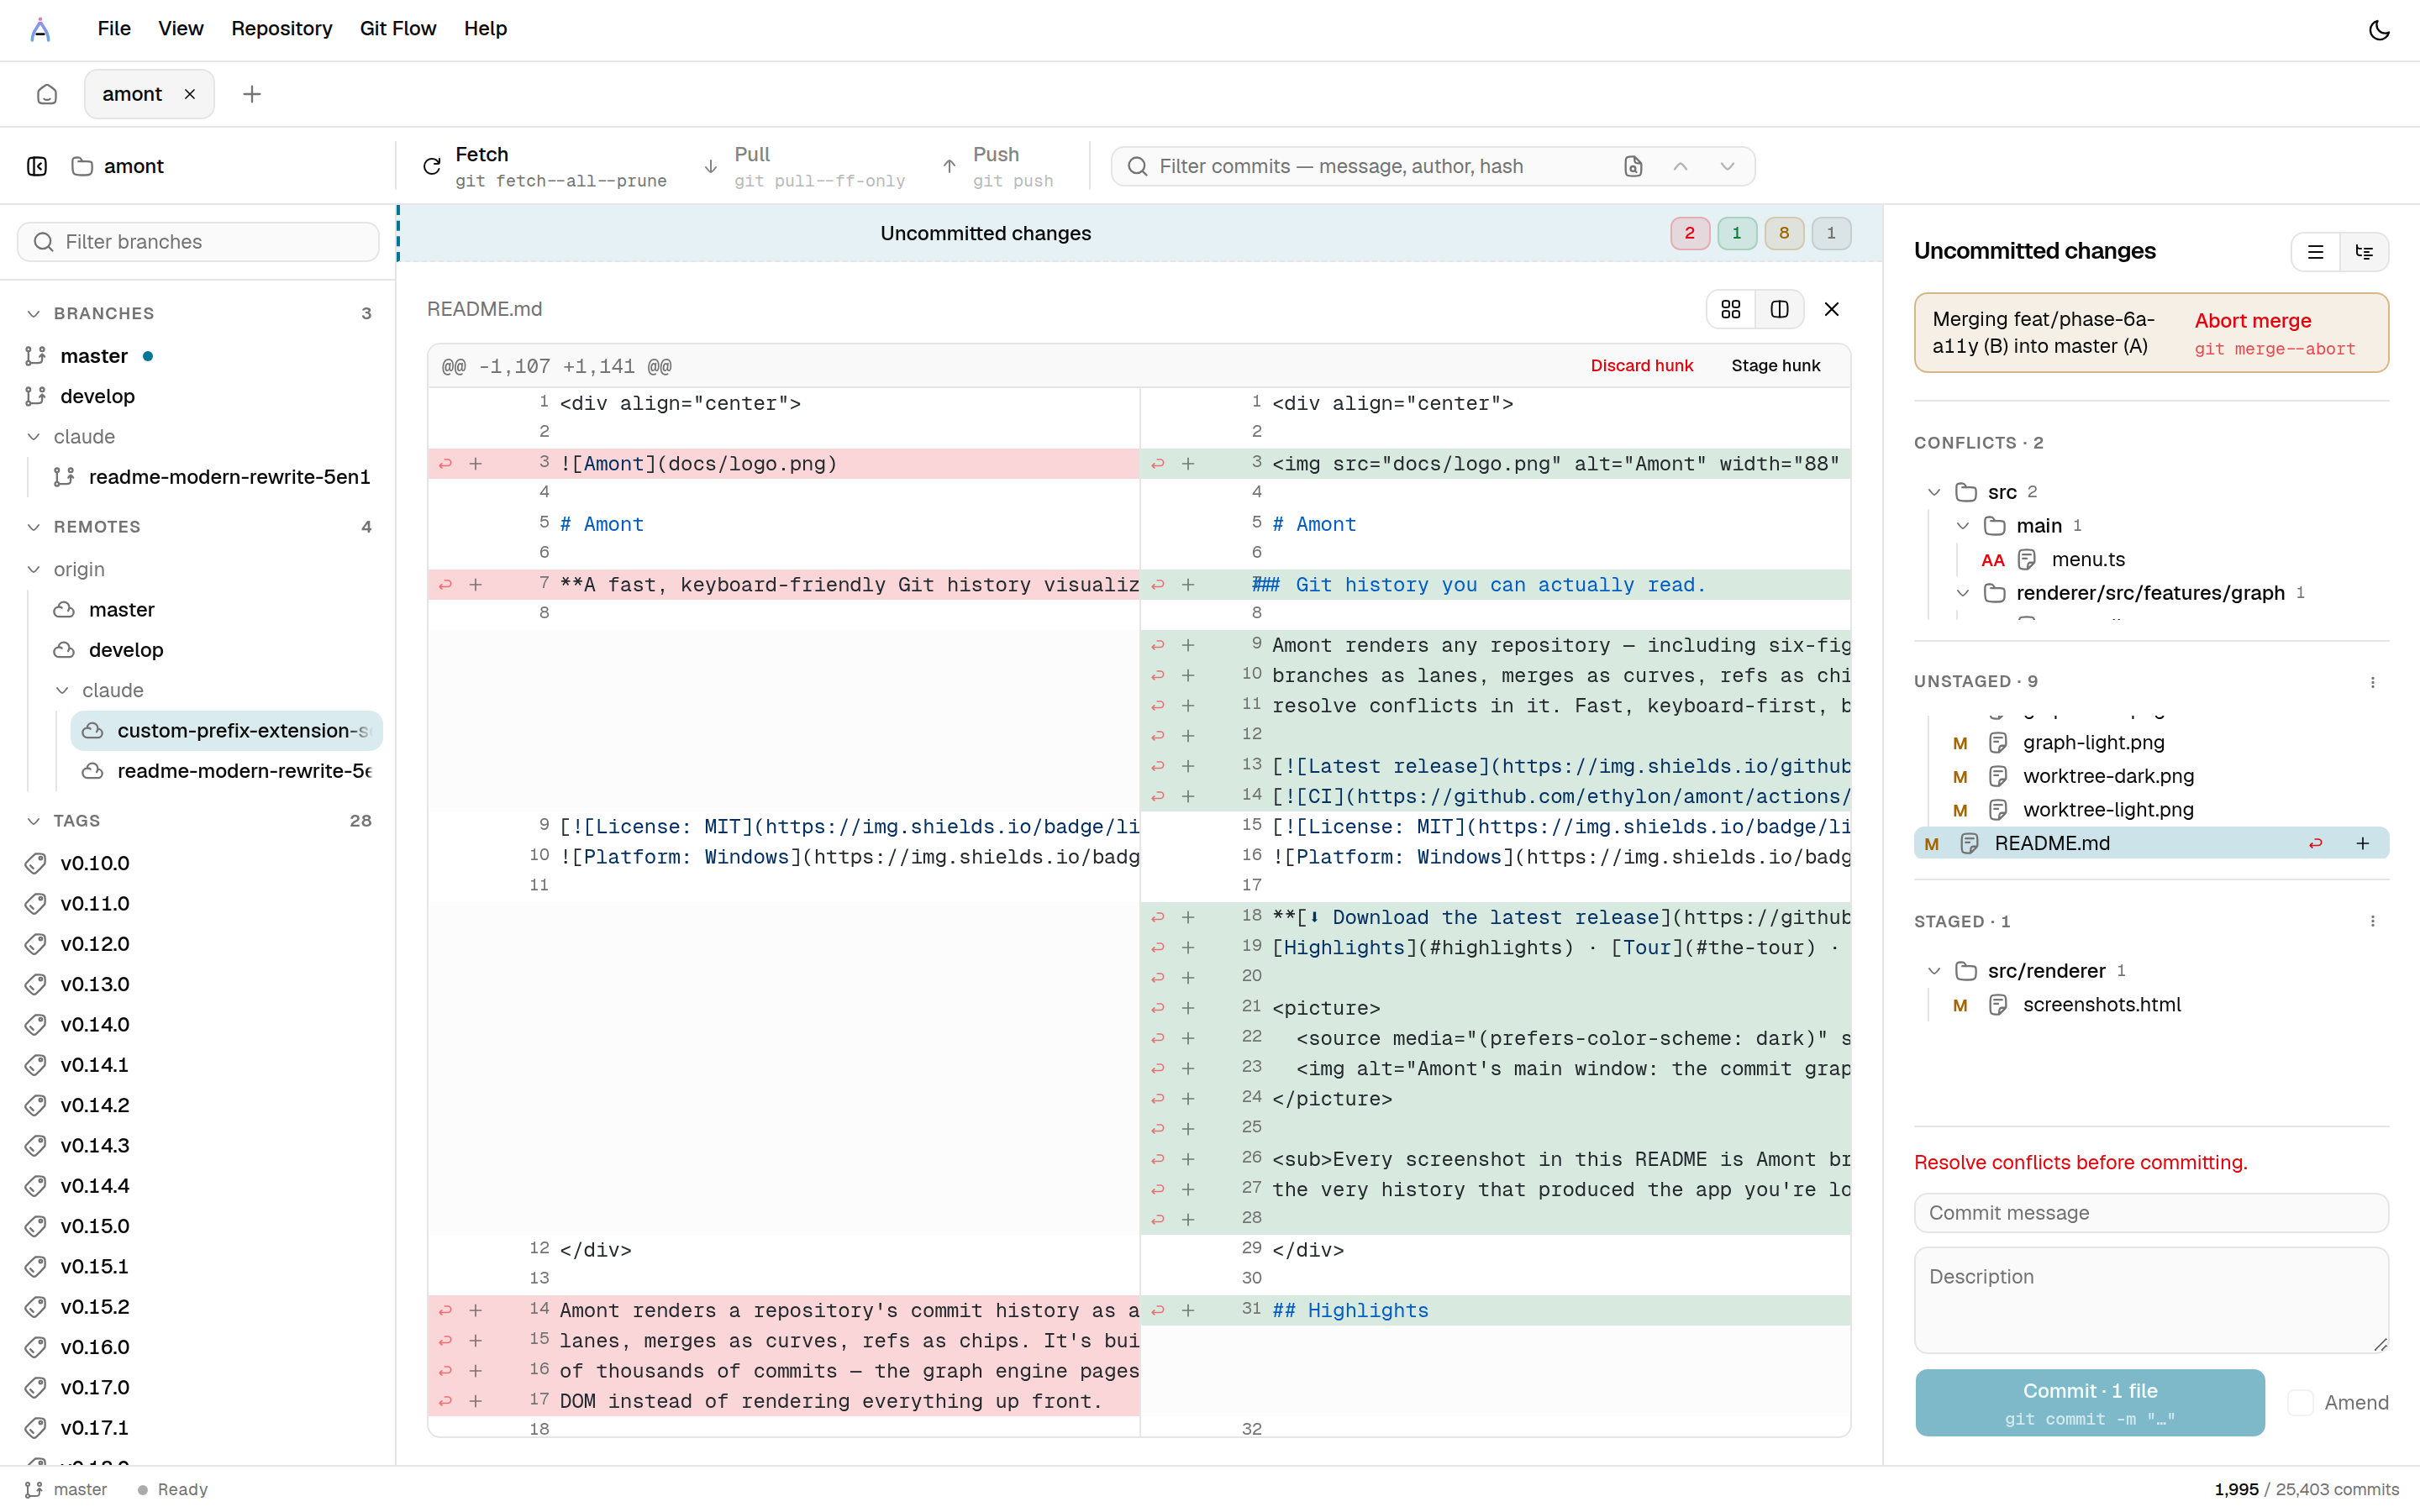
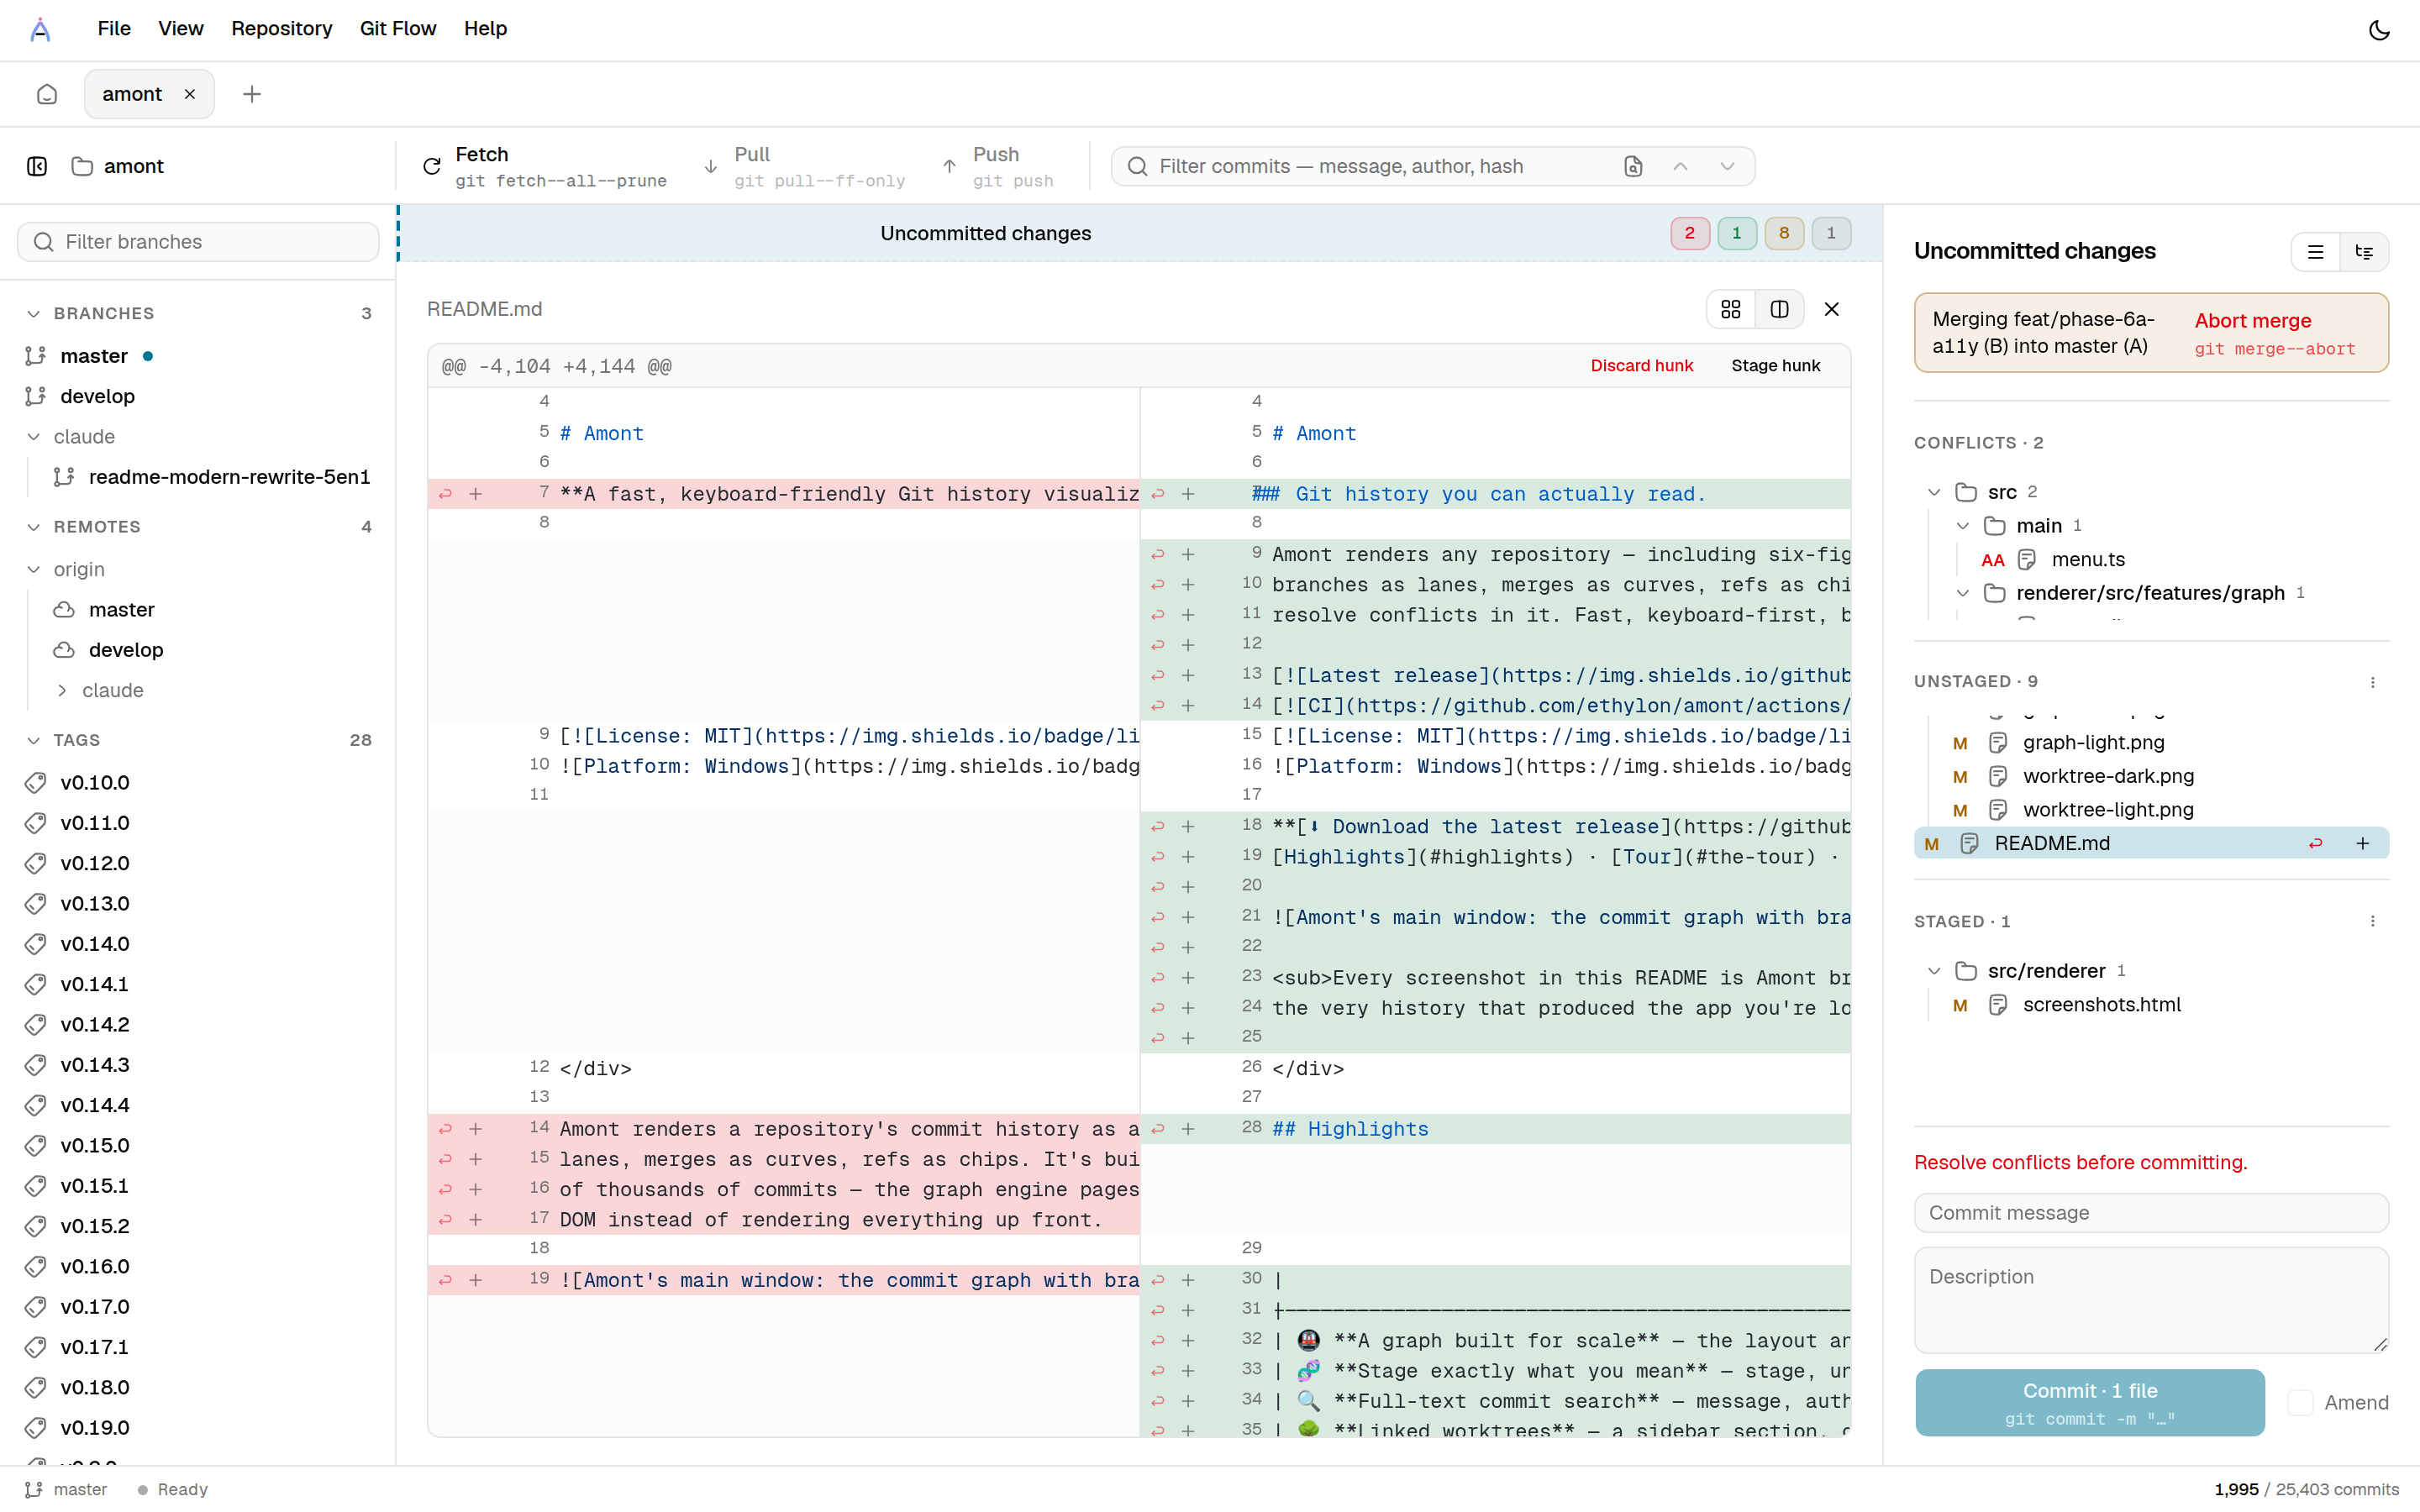
fix(docs): markdown image syntax so README images render on a private repo
GitHub only rewrites relative image paths to authenticated URLs for
markdown-syntax images; inside raw HTML (<img>, <picture><source srcset>)
they resolve against github.com and 404 on a private repository. Swap
every repo-hosted image back to ![](docs/…) — dark variants move into
<details> blocks instead of <picture> theme switching — and refresh the
staging screenshots plus the harness's embedded README diff to match the
final text.

Claude-Session: https://claude.ai/code/session_017cNpH4hZe9yYCL1wKAB27X

diff --git a/README.md b/README.md
@@ -1,6 +1,6 @@
 <div align="center">
 
-<img src="docs/logo.png" alt="Amont" width="88" />
+![Amont](docs/logo.png)
 
 # Amont
 
@@ -18,10 +18,7 @@ resolve conflicts in it. Fast, keyboard-first, built for Windows.
 **[⬇ Download the latest release](https://github.com/ethylon/amont/releases/latest)** ·
 [Highlights](#highlights) · [Tour](#the-tour) · [Install](#install) · [Development](#development)
 
-<picture>
-  <source media="(prefers-color-scheme: dark)" srcset="docs/graph-dark.png" />
-  <img alt="Amont's main window: the commit graph with branch lanes and ref chips, the branches sidebar, and the detail panel showing a commit's message and file tree." src="docs/graph-light.png" />
-</picture>
+![Amont's main window: the commit graph with branch lanes and ref chips, the branches sidebar, and the detail panel showing a commit's message and file tree.](docs/graph-light.png)
 
 <sub>Every screenshot in this README is Amont browsing <strong>Amont's own repository</strong> —
 the very history that produced the app you're looking at. It's turtles all the way down.</sub>
@@ -51,10 +48,7 @@ ahead/behind divergence are folded into one timeline; commit subjects carry type
 (`feat`, `fix`, `style`, …) so the shape of the work reads at a glance. Selecting a commit
 opens its full message, co-authors and changed files in the detail panel.
 
-<picture>
-  <source media="(prefers-color-scheme: light)" srcset="docs/graph-light.png" />
-  <img alt="The commit graph and detail panel in the dark theme." src="docs/graph-dark.png" />
-</picture>
+![The commit graph and detail panel in the dark theme.](docs/graph-dark.png)
 
 ### Diffs that read like code
 
@@ -62,10 +56,14 @@ Unified or side-by-side, one file or the whole commit — the two panes scroll t
 Shiki highlights everything with the same grammars VS Code uses. Binary images render in a
 proper viewer.
 
-<picture>
-  <source media="(prefers-color-scheme: dark)" srcset="docs/diff-dark.png" />
-  <img alt="A side-by-side, syntax-highlighted diff of a TypeScript file, with the commit's detail panel on the right." src="docs/diff-light.png" />
-</picture>
+![A side-by-side, syntax-highlighted diff of a TypeScript file, with the commit's detail panel on the right.](docs/diff-light.png)
+
+<details>
+<summary>🌙 Same view, dark theme</summary>
+
+![The same side-by-side diff in the dark theme.](docs/diff-dark.png)
+
+</details>
 
 ### Stage exactly what you mean
 
@@ -73,10 +71,14 @@ The `Uncommitted changes` row at the top of the graph opens the staging panel: s
 unstage files, folders, hunks or single lines from a live split diff, review everything,
 then commit or amend — with the exact git command shown on the button before you run it.
 
-<picture>
-  <source media="(prefers-color-scheme: dark)" srcset="docs/worktree-dark.png" />
-  <img alt="The staging panel: staged and unstaged file trees, a live side-by-side diff with per-hunk stage/discard actions, and the commit message box." src="docs/worktree-light.png" />
-</picture>
+![The staging panel: staged and unstaged file trees, a live side-by-side diff with per-hunk stage/discard actions, and the commit message box.](docs/worktree-light.png)
+
+<details>
+<summary>🌙 Same view, dark theme</summary>
+
+![The same staging panel in the dark theme.](docs/worktree-dark.png)
+
+</details>
 
 <sub>Inception checkpoint: the diff being staged up there is <em>this README rewrite</em>,
 mid-flight, next to its freshly reshot screenshots.</sub>
@@ -94,10 +96,14 @@ lines — landing in the merged output **in the order you click them**, no force
 A-before-B. The output is a normal, highlighted editor: picks and hand edits coexist.
 `Mark as resolved` writes the file and stages it once no conflict markers remain.
 
-<picture>
-  <source media="(prefers-color-scheme: dark)" srcset="docs/conflict-dark.png" />
-  <img alt="The conflict resolution view: the 'ours' (A) and 'theirs' (B) versions of a file in two aligned, syntax-highlighted panes with per-side and per-line pickers, above an editable merged output." src="docs/conflict-light.png" />
-</picture>
+![The conflict resolution view: the 'ours' (A) and 'theirs' (B) versions of a file in two aligned, syntax-highlighted panes with per-side and per-line pickers, above an editable merged output.](docs/conflict-light.png)
+
+<details>
+<summary>🌙 Same view, dark theme</summary>
+
+![The same conflict resolution view in the dark theme.](docs/conflict-dark.png)
+
+</details>
 
 ### About these screenshots
 